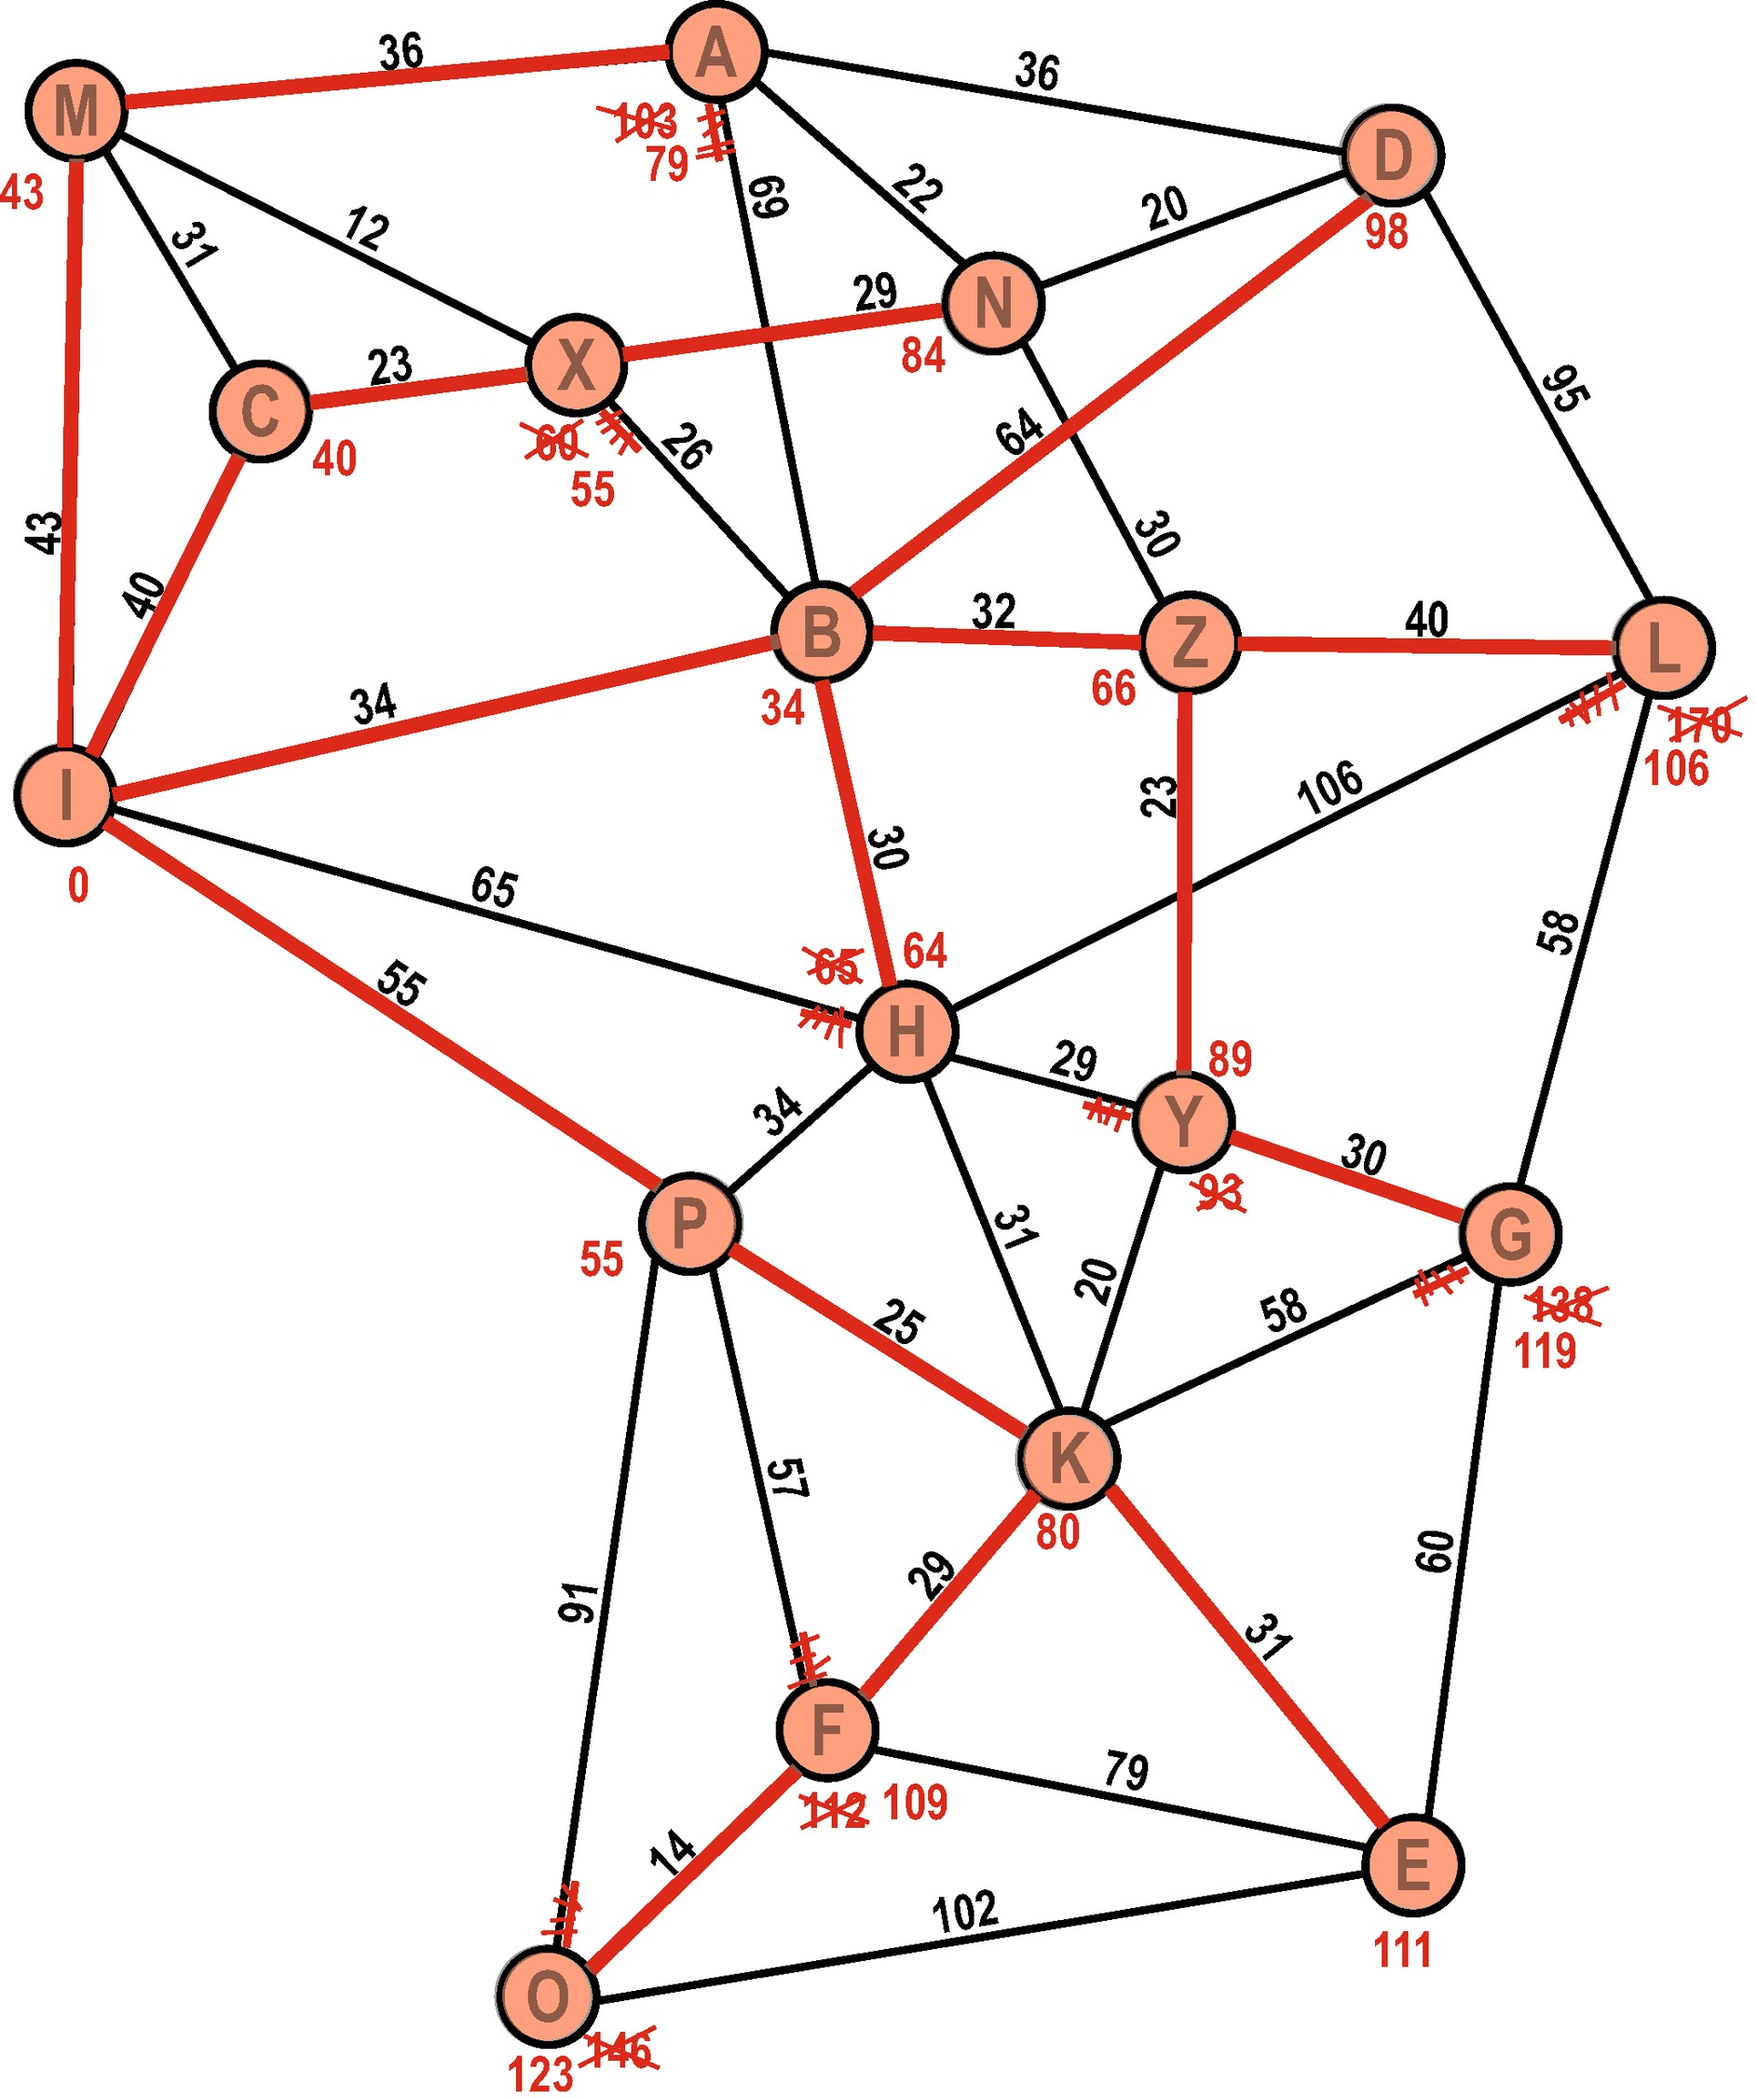
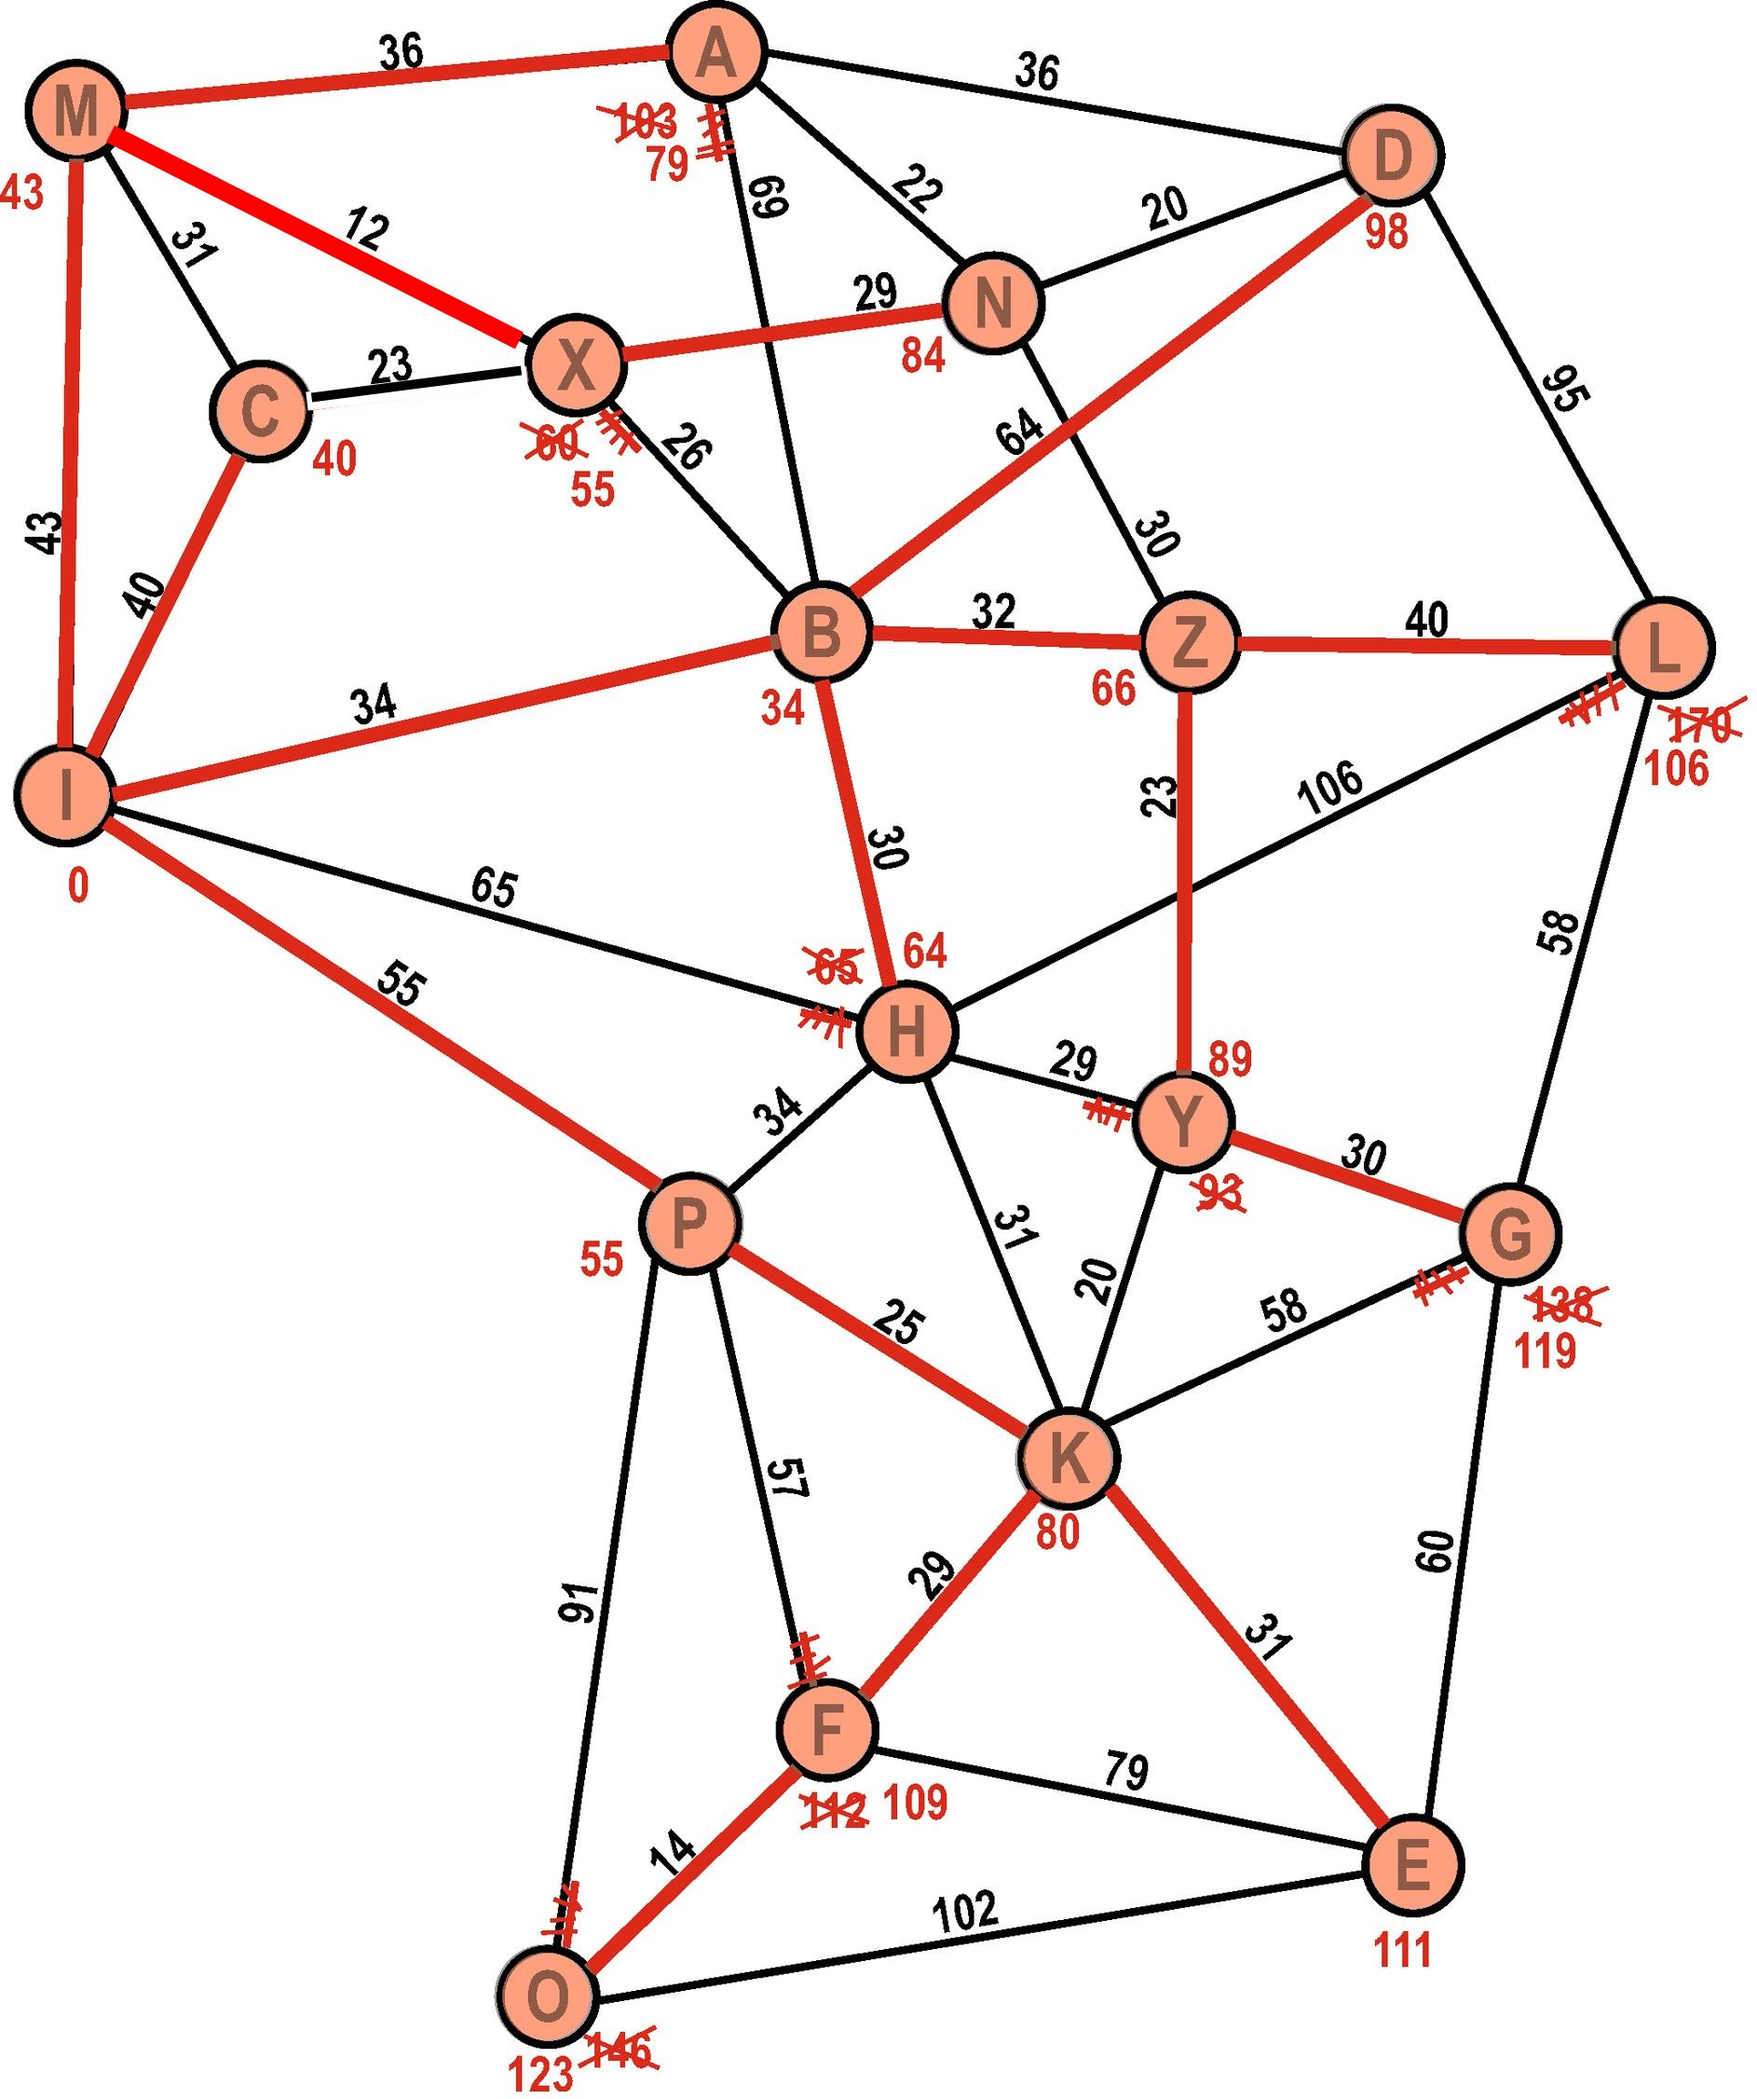
fix small issues on dijkstra and add schedule

Changed region(s): [[0.0615, 0.0622, 0.3075, 0.2176]]

diff --git a/docs/EF-Algorithmen/08-dijkstra/index.md b/docs/EF-Algorithmen/08-dijkstra/index.md
@@ -199,6 +199,10 @@ Führen Sie den Dijkstra-Algorithmus aus: erstellen Sie eine Entfernungstabelle 
 </Solution>
 :::
 
+## Besprechung der Aufgaben
+
+<iframe src="https://erzbe-my.sharepoint.com/personal/balthasar_hofer_gbsl_ch/_layouts/15/Doc.aspx?sourcedoc={94b15380-9d43-4d09-8e2c-00037eca2df5}&amp;action=embedview&amp;wdAr=1.7777777777777777" width="100%" height="450px" frameborder="0">Dies ist ein eingebettetes <a target="_blank" href="https://office.com">Microsoft Office</a>-Dokument, unterstützt von <a target="_blank" href="https://office.com/webapps">Office</a>.</iframe>
+
 ## Zusammenfassung
 
 [@youtube](https://www.youtube-nocookie.com/embed/EFg3u_E6eHU?si=FtRqtOsopcTPZ2F7)
